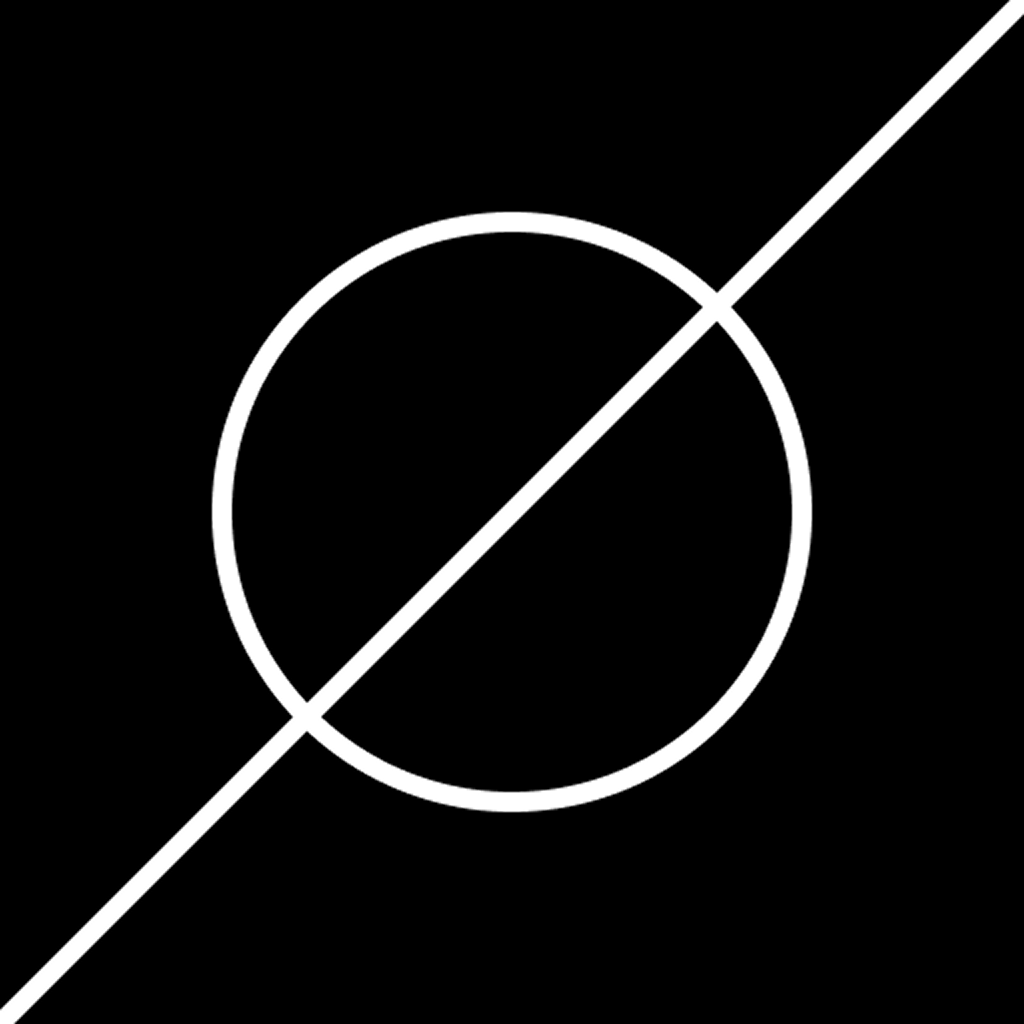
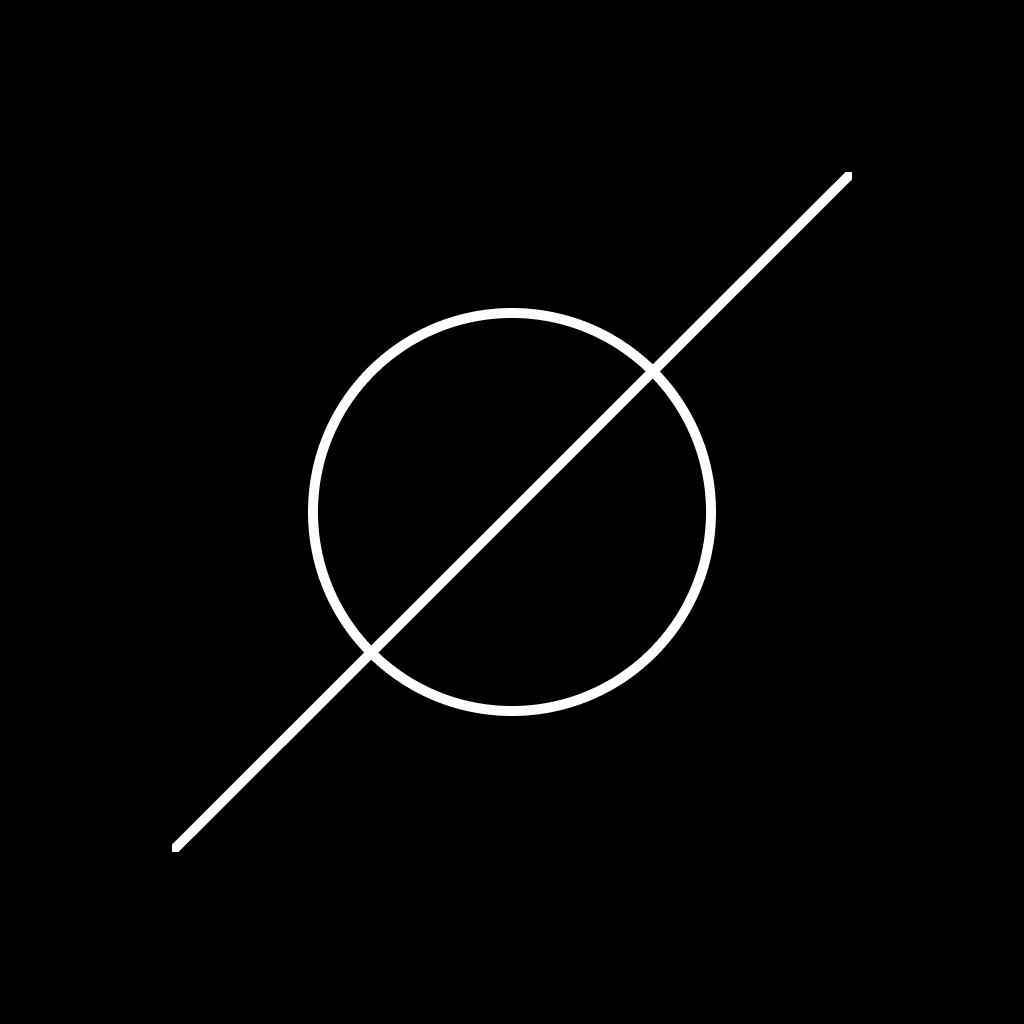
🌱 아이콘 변경

diff --git a/app.config.js b/app.config.js
@@ -89,7 +89,7 @@ export default {
           image: './assets/images/splash-icon.png',   // 스플래시 화면 이미지
           imageWidth: 200,                            // 이미지 너비 (픽셀)
           resizeMode: 'contain',                      // 이미지 크기 조정 방식
-          backgroundColor: '#ffffff',                 // 스플래시 화면 배경색
+          backgroundColor: '#000000',                 // 스플래시 화면 배경색
         },
       ],
     ],
